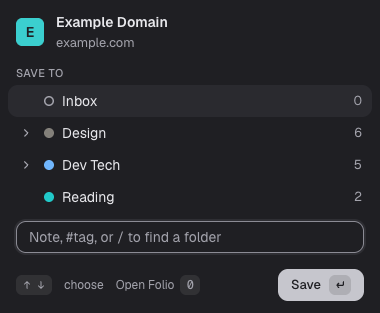
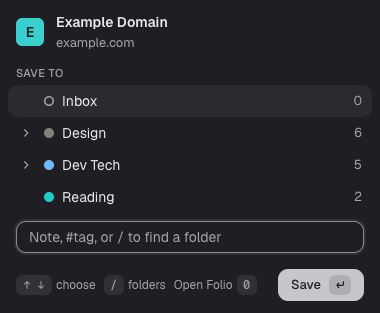
Polish the popup footer and saved note row after a UI review
The save footer's hints sat 4px from the Save button once "/ folders" was
added; tighter keycap gaps give it clear space in every state, and the e2e
check now requires 8px between the hints and Save, not just no overflow.

The note row lacked the Move row's 1px border, so its text sat 1px left of
"Inbox". After saving or cancelling a note, React reused the Save button's
DOM node for Open in Folio, leaving focus on it where a stray Enter opened
the dashboard; distinct keys and a blur fix that.

Popup screenshots regenerated for the new note row and footer.

Changed region(s): [[0.1447, 0.8914, 0.6079, 0.9489], [0.6368, 0.8914, 0.6658, 0.9201]]

diff --git a/components/popup/SavedPanel.tsx b/components/popup/SavedPanel.tsx
@@ -90,13 +90,15 @@ export function SavedPanel({
                 await setMeta(bookmark.id, { note: text, tags });
               }
               setEditing(false);
+              // Focus would otherwise sit on a footer button, where a stray ↵ acts on it.
+              (document.activeElement as HTMLElement | null)?.blur();
             }}
           />
         ) : (
           <button
             onClick={() => setEditing(true)}
             aria-label={hasNote ? 'Edit note and tags' : 'Add a note'}
-            className="flex min-h-8 w-full cursor-pointer items-center justify-between gap-3 rounded-[10px] border-0 bg-transparent px-3 py-1.5 text-left text-[13px] hover:bg-hover"
+            className="flex min-h-8 w-full cursor-pointer items-center justify-between gap-3 rounded-[10px] border border-transparent bg-transparent px-3 py-1.5 text-left text-[13px] hover:bg-hover"
           >
             {hasNote && meta ? (
               <span className="flex min-w-0 flex-col gap-1 text-ink-soft">
@@ -127,16 +129,22 @@ export function SavedPanel({
             <span className="inline-flex items-center gap-1.5 text-[12px] text-muted">
               <Kbd>Esc</Kbd> cancel
             </span>
-            <Button variant="primary" form="saved-note">
+            <Button key="save-note" variant="primary" form="saved-note">
               Save <Kbd>↵</Kbd>
             </Button>
           </>
         ) : (
           <>
-            <Button variant="ghost" onClick={() => void remove()} className="-ml-3" style={{ color: 'var(--danger)' }}>
+            <Button
+              key="remove"
+              variant="ghost"
+              onClick={() => void remove()}
+              className="-ml-3"
+              style={{ color: 'var(--danger)' }}
+            >
               Remove <Kbd>⌫</Kbd>
             </Button>
-            <Button onClick={() => void openFolio()}>
+            <Button key="open" onClick={() => void openFolio()}>
               Open in Folio <Kbd>0</Kbd>
             </Button>
           </>

diff --git a/components/popup/SavePanel.tsx b/components/popup/SavePanel.tsx
@@ -172,7 +172,7 @@ export function SavePanel({
         />
       </div>
       <div className="flex items-center justify-between gap-3 px-4 pb-3 pt-1">
-        <span className="flex min-w-0 items-center gap-3 whitespace-nowrap text-[12px] text-muted">
+        <span className="flex items-center gap-2 whitespace-nowrap text-[12px] text-muted">
           {removed ? (
             <span>
               Removed.{' '}
@@ -184,20 +184,20 @@ export function SavePanel({
               </button>
             </span>
           ) : (
-            <span className="inline-flex items-center gap-1.5">
+            <span className="inline-flex items-center gap-1">
               <Kbd>↑↓</Kbd> choose
             </span>
           )}
           {/* The placeholder says this too, but it disappears once you type; this hint stays. */}
           <button
             onClick={() => (setText('/'), inputRef.current?.focus())}
-            className="inline-flex cursor-pointer items-center gap-1.5 border-0 bg-transparent p-0 text-[12px] text-muted hover:text-ink"
+            className="inline-flex cursor-pointer items-center gap-1 border-0 bg-transparent p-0 text-[12px] text-muted hover:text-ink"
           >
             <Kbd>/</Kbd> folders
           </button>
           <button
             onClick={() => void openFolio()}
-            className="inline-flex cursor-pointer items-center gap-1.5 border-0 bg-transparent p-0 text-[12px] text-muted hover:text-ink"
+            className="inline-flex cursor-pointer items-center gap-1 border-0 bg-transparent p-0 text-[12px] text-muted hover:text-ink"
           >
             Open Folio <Kbd>0</Kbd>
           </button>
